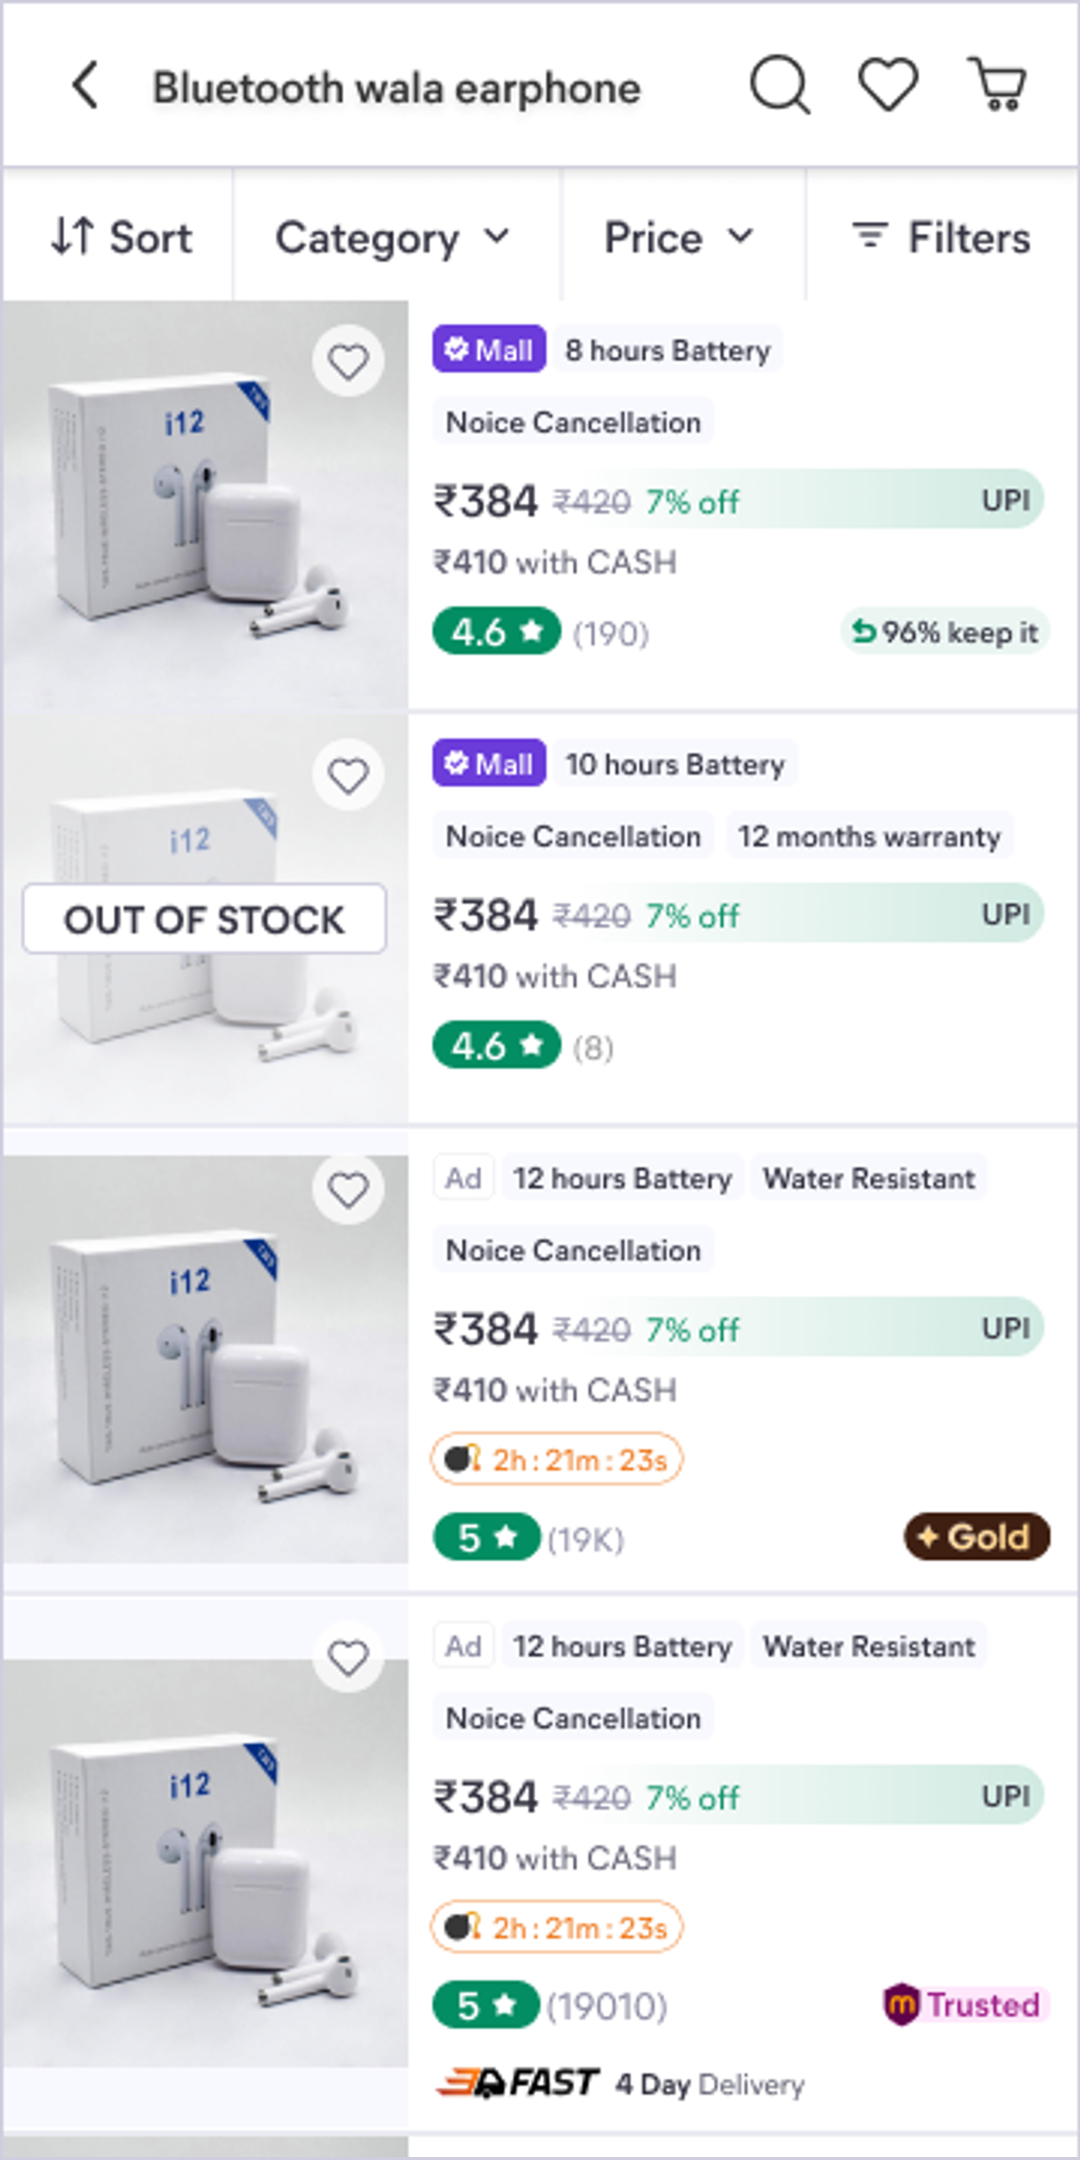
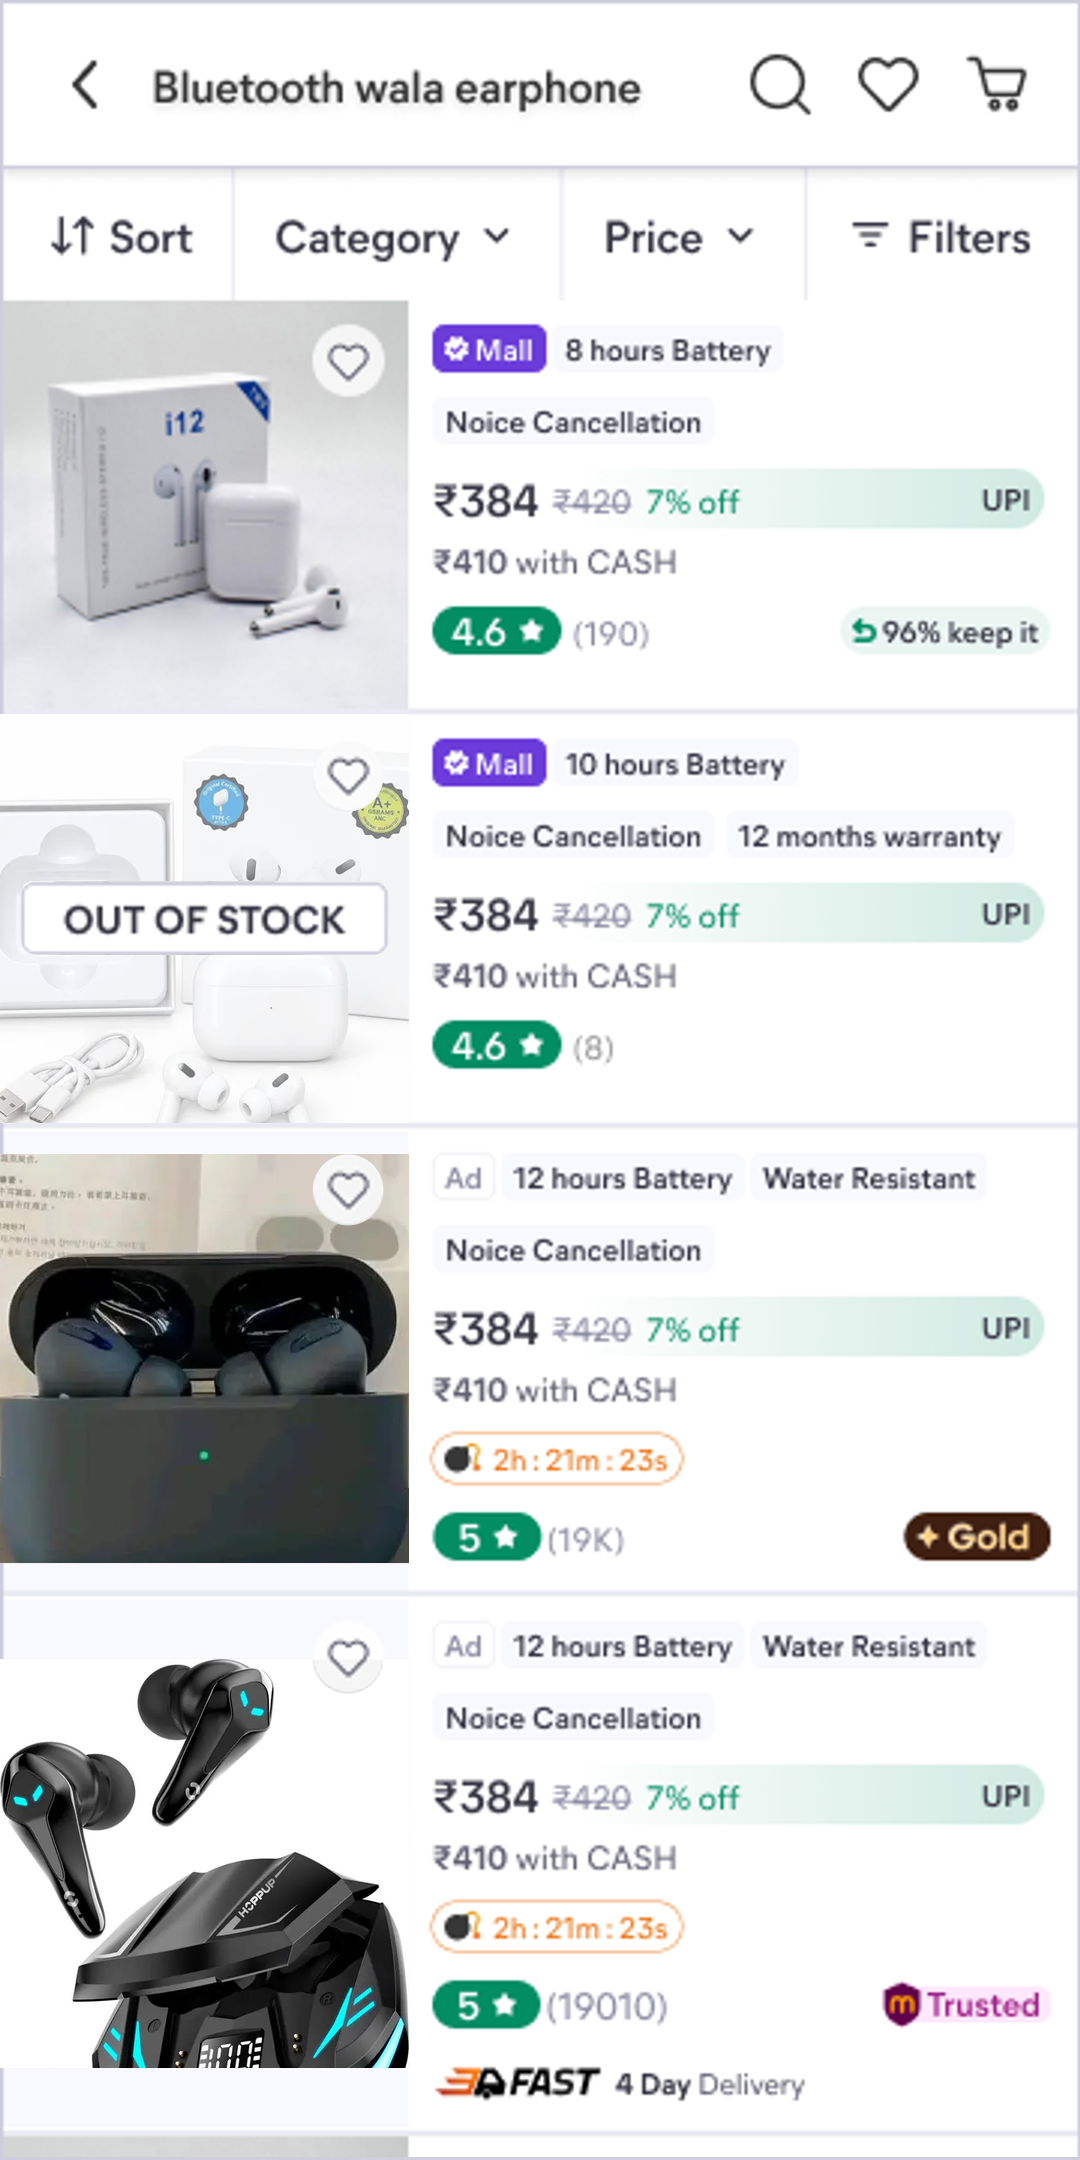
Product cards: list view shows three different earbuds from meesho.com; Bigger images for fashion removed

Changed region(s): [[0.0, 0.4343, 0.3972, 0.9616], [0.0, 0.3412, 0.275, 0.4032], [0.3056, 0.3102, 0.3972, 0.4032]]

diff --git a/src/data/plp-case.ts b/src/data/plp-case.ts
@@ -97,7 +97,7 @@ export const plpCase: CaseTeaserData = {
           kind: 'inside',
           lead: 'In the full case study:',
           items: [
-            'Each of the eight changes: why, how, what worked',
+            'Each of the seven changes: why, how, what worked',
             'Before and after screens for every change',
           ],
         },
@@ -154,13 +154,6 @@ export const plpCase: CaseTeaserData = {
       worked: 'Taps into the product fell while orders per tap rose: one finding, not two. **The decision moved onto the listing.**',
     },
     {
-      state: 'bigimg',
-      title: 'Bigger images for fashion',
-      why: 'For a garment on a body **the look is the decision**, and the standard image was too small to judge it.',
-      how: 'Taller 4:5 image on fashion cards, tested across the feed and then by category.',
-      worked: 'Fashion converted on fewer, larger cards; **non-fashion paid for it in the same feed.** The rule it points at is **intent, not a blanket change.**',
-    },
-    {
       state: 'cash',
       title: 'Cash price',
       status: 'Live',
@@ -197,9 +190,7 @@ export const plpCase: CaseTeaserData = {
     // cash-price row lit" is still to come), so it shows the old feed, whose
     // cards carry the cash price in its own row under the prepaid (UPI) price
     // (2026-10-04 audit: it had borrowed the swipe clip). Bigger images for
-    // fashion has none either and no export shows a taller 4:5 image, so it
-    // still borrows the swipe clip, under that clip's own title, until he
-    // supplies one.
+    // fashion came out of the study (2026-10-04: "remove this").
     map: { stagger: 'after', cleanup: 'framework', scroll: 'swipe', cash: 'before' },
     // Swipeable images as a composed clip (Uttham, 2026-10-03: "please mock by
     // moving images … for other 1 or 2 products atleast"): scripts/plp-swipe-clip.mjs
@@ -212,7 +203,6 @@ export const plpCase: CaseTeaserData = {
       list: 'Earphones as list rows: each row a picture beside its fact chips, price, cash price and rating',
       scroll: 'A feed whose cards carry swipeable images, with the dots under each picture',
       swipe: 'A feed of different kurtis whose cards carry swipeable images: the first swipes to a kurti in another colour, two more to their own back view, and back, the dots under each picture following',
-      bigimg: 'A fashion card with a taller 4:5 image',
       date: 'The new feed with a kurti that shows Fast and its day count at its foot, among cards with no delivery line',
       after: 'The new product card',
       // for his cash.png when it comes (drop `cash: 'before'` from the map then)
@@ -228,7 +218,6 @@ export const plpCase: CaseTeaserData = {
       stagger: 'A staggered feed',
       list: 'List view by category',
       scroll: 'More views and variations',
-      bigimg: 'Bigger images for fashion',
       date: 'Dates on fast deliveries',
       after: 'The new card',
       cash: 'The cash-price row',

diff --git a/src/assets/plp/README.md b/src/assets/plp/README.md
@@ -20,17 +20,15 @@ and Delivery date:
 | `stagger` | Staggered feed (block 2) | A staggered feed | a feed with staggered columns, each card at its natural height |
 | `list` | List or grid by category (block 2) | List view by category | composed: the list-view screen only (earphones as rows; his one earphone photo on every row, because the prototype's catalogue has no earphones — a varied set is his to supply) |
 | `swipe` (state `scroll`; its clip is `public/media/plp/swipe.mp4`) | Swipeable images | More views and variations | composed clip: his Kurti feed capture (`scroll.png`), six of whose eight yellow kurtis are the prototype's other kurtis; the first card swipes to a red kurti, the black and ivory ones to their own back views, and back, the dots following; `swipe.png` is the clip's first and last frame |
-| `bigimg` | Bigger images for fashion | Bigger images for fashion | a fashion card with the taller 4:5 image |
 | `date` | Delivery date | Dates on fast deliveries | composed: the winning card (Fast and its day count) in the new feed, among cards with no date |
 | `after` | Outcome | The new card | the new product card |
 
-Full case study only: `cash` (The cash-price row) and `bigimg` (Bigger images
-for fashion), neither exported yet. Until his `cash.png` comes, the state maps
+Full case study only: `cash` (The cash-price row), not exported yet. Until his `cash.png` comes, the state maps
 to `before`, whose cards carry the cash price in its own row under the UPI
 price, under its own title, The cash-price row (2026-10-04 audit: it had
 borrowed the swipe clip); when the file arrives, drop `cash: 'before'` from
-`screens.map`. No export shows a taller 4:5 fashion image, so `bigimg` still
-borrows the swipe clip under that clip's title. The other blocks reuse the
+`screens.map`. Bigger images for fashion (`bigimg`) came out of the study on
+2026-10-04 ("remove this"). The other blocks reuse the
 names above. The scan-order screens (`scan-*`) left with that section.
 
 **Composed screens** (Uttham, 2026-10-03: "I gave the whole dump I want you to
@@ -123,3 +121,5 @@ They also stand side by side, tagged Before and After, in the homepage tile (`ti
 `src/data/studies.ts`). The earlier cut-outs came off on 2026-10-02.
 
 `after-tile.png` is the homepage tile's copy of `after.png` (2026-10-04): the carousel dots moved from the third product (the yellow kurti) to the foot of the fourth's photo (the bedsheet), beside the tile's "Scrollable" note, so its arrow meets them; the kurti's photo is filled in where the dots were. The case page keeps `after.png` as he exported it.
+
+The list view's rows 2–4 (2026-10-04): three different wireless earbuds from meesho.com's own listings (`EARBUDS` in `scripts/plp-photos.mjs`; "go to meesho.com and take images from there") instead of his i12 photo four times; row 1 keeps his i12. Only each row's 409px photo square changes, cropped above the listing stamp in each photo's corner; his hearts, row 2's OUT OF STOCK label and its white wash are kept.

diff --git a/CLAUDE.md b/CLAUDE.md
@@ -614,7 +614,7 @@ of his exports is the right one**, which `screens.map` then names (2026-10-04
 audit, "I want you to judge whether we are showing right infor and images": the
 product cards' Cash price shows `before`, whose cards carry the cash price in its
 own row, under its own title, instead of the swipe clip; Bigger images for
-fashion has no right export and still borrows). `src/assets/mall/` is the Mall
+fashion came out of the study on 2026-10-04, "remove this"). `src/assets/mall/` is the Mall
 deck's own exports, kept only for the homepage tile.
 
 **The teaser pages run on the homepage spacing ladder, stepped up for reading**
